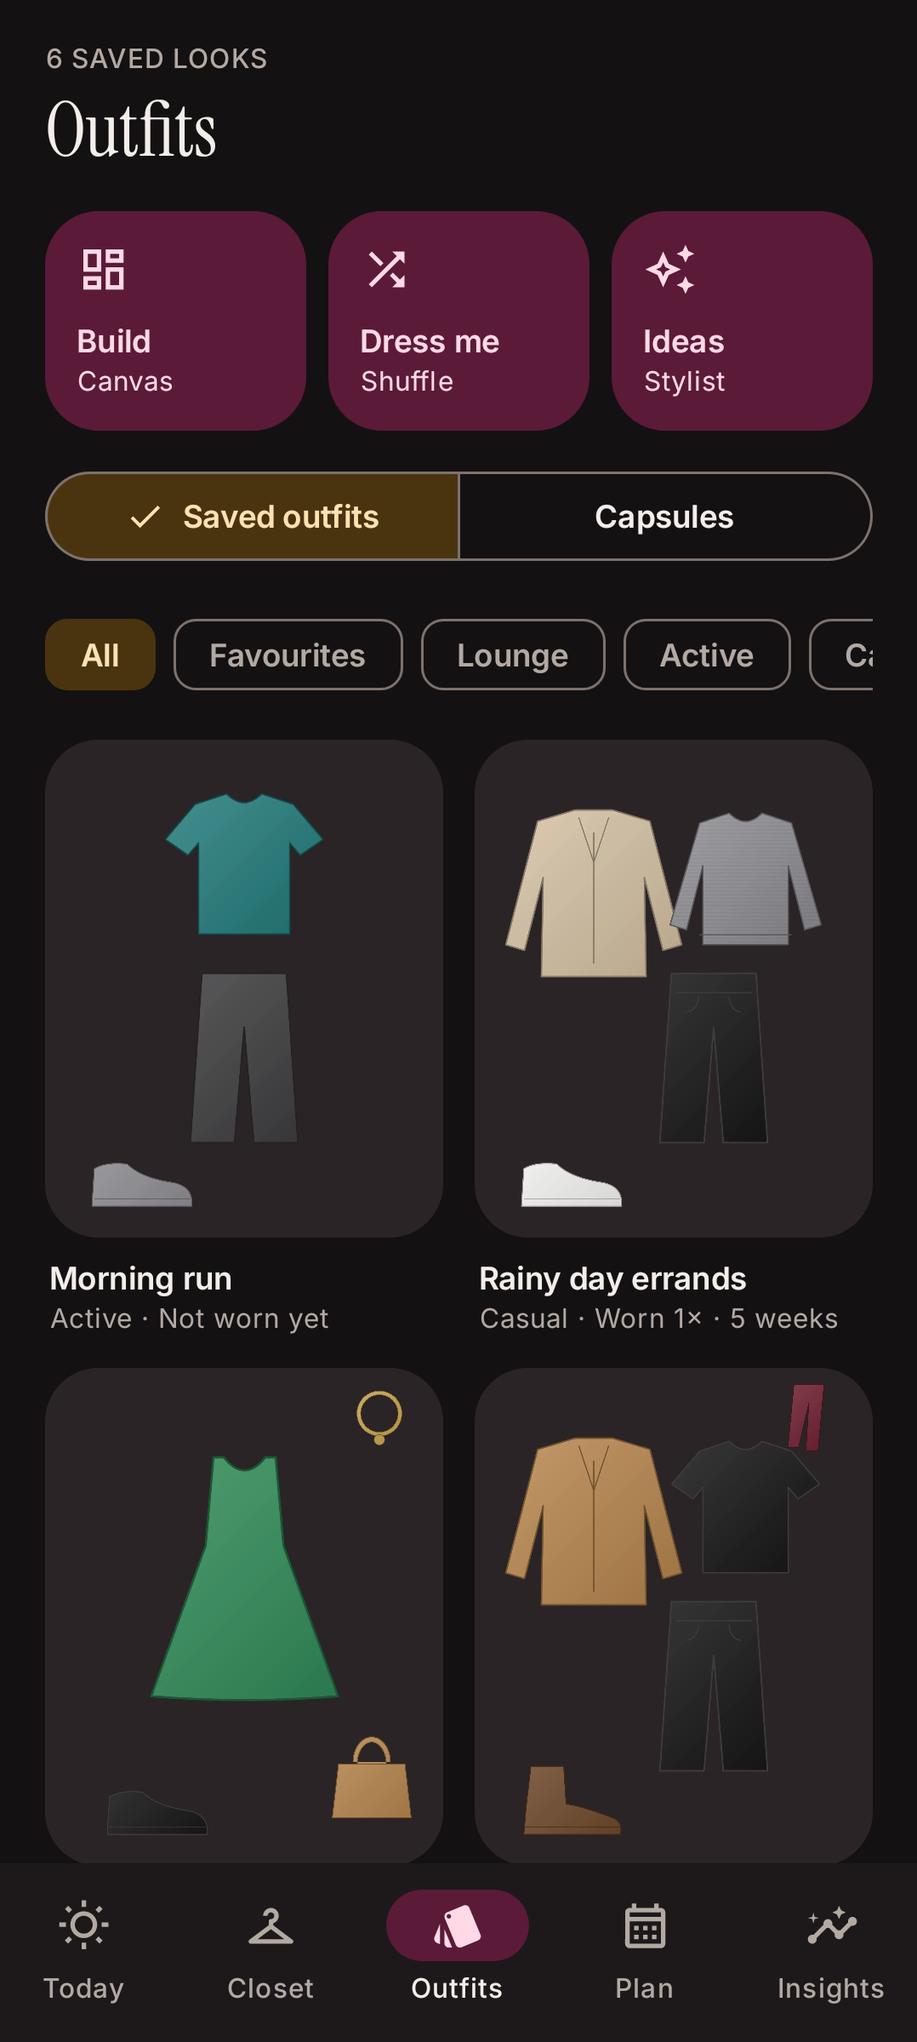
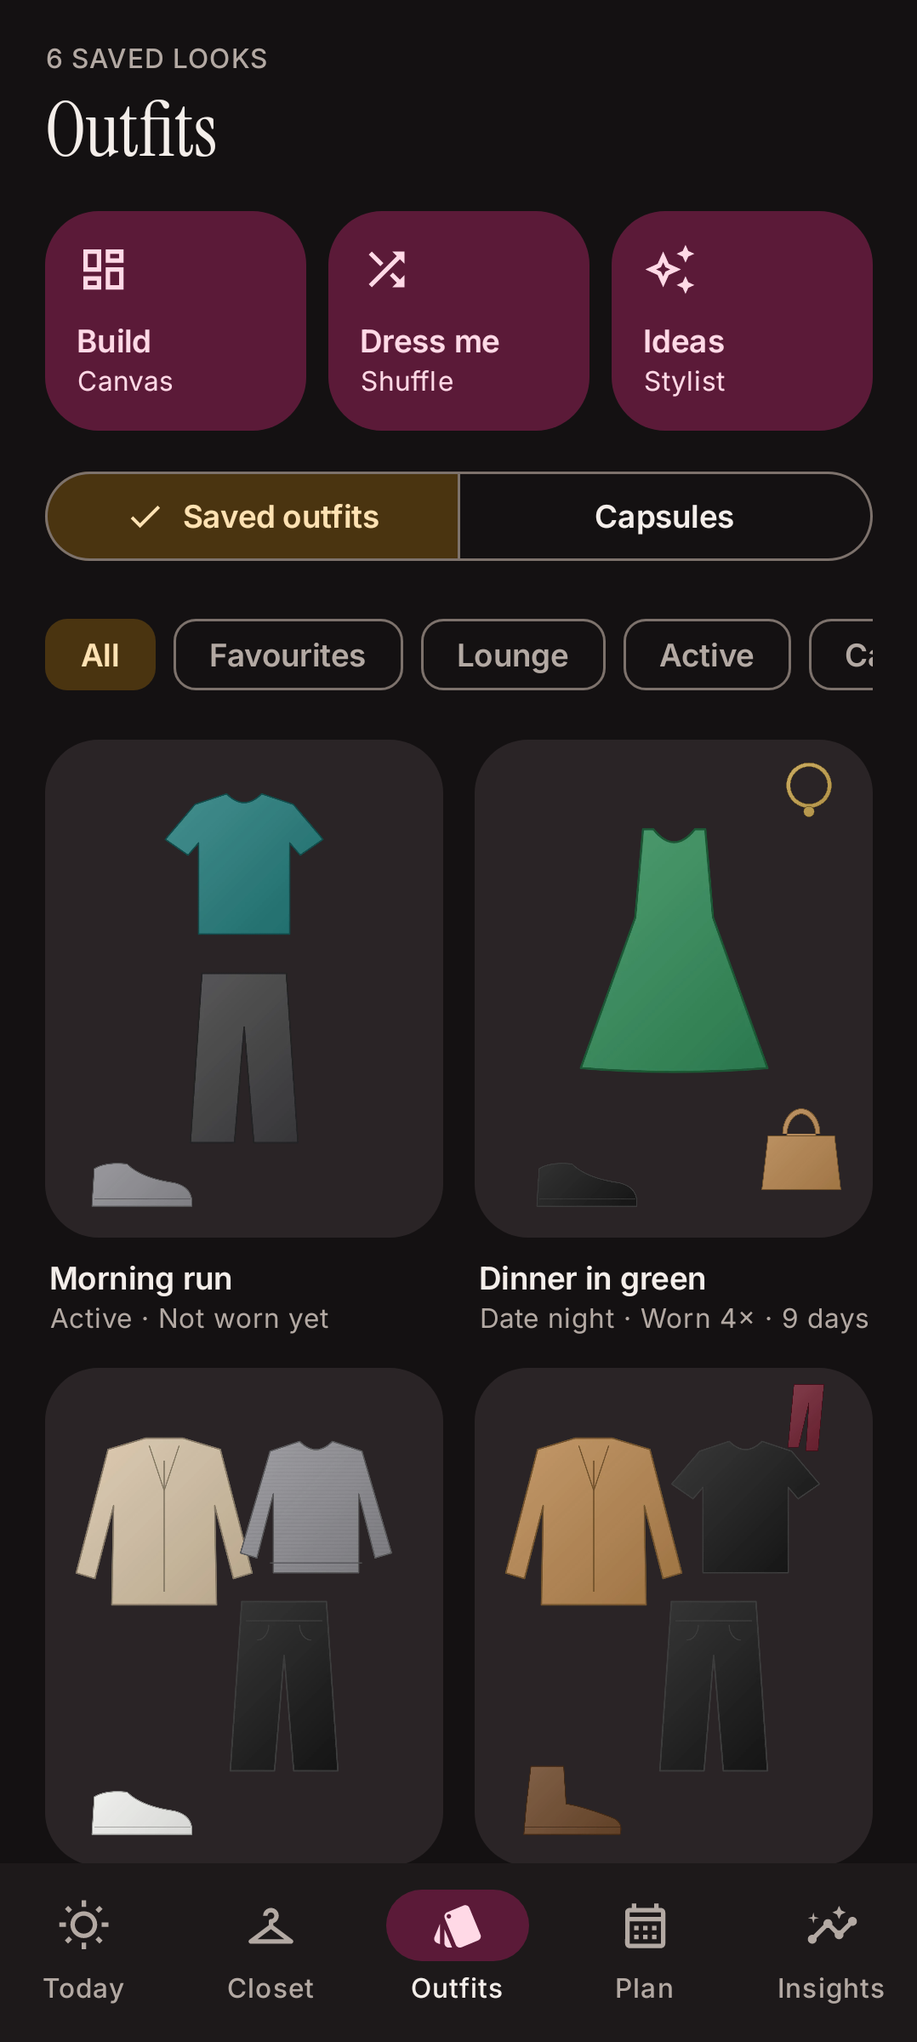
Polish builder layout, tappable tiles, multi-place weather cache; add README and screenshots
- Builder: canvas sized to fit, feedback strip directly under it
- Closet tiles: the whole tile (image and name) is tappable
- Weather: in-memory cache per place so trip forecasts don't evict home
- Trips: regenerating a plan keeps lines added by hand
- Walkthrough test drives every main screen; screenshots in docs/

Claude-Session: https://claude.ai/code/session_017T7hM8q3jRSr691YncxFtP

diff --git a/app/src/main/java/com/kintukka/hanger/ui/outfits/OutfitBuilderScreen.kt b/app/src/main/java/com/kintukka/hanger/ui/outfits/OutfitBuilderScreen.kt
@@ -13,7 +13,6 @@ import androidx.compose.foundation.layout.PaddingValues
 import androidx.compose.foundation.layout.Row
 import androidx.compose.foundation.layout.Spacer
 import androidx.compose.foundation.layout.aspectRatio
-import androidx.compose.foundation.layout.fillMaxHeight
 import androidx.compose.foundation.layout.fillMaxSize
 import androidx.compose.foundation.layout.fillMaxWidth
 import androidx.compose.foundation.layout.height
@@ -267,39 +266,41 @@ fun OutfitBuilderScreen(navController: NavHostController, outfitId: Long, date: 
         },
     ) { padding ->
         Column(Modifier.fillMaxSize().padding(padding)) {
-            Box(Modifier.weight(1f).fillMaxWidth().padding(horizontal = 20.dp), contentAlignment = Alignment.TopCenter) {
-                OutfitCanvas(
-                    placements = state.placements,
-                    items = itemsById,
-                    selected = state.selected,
-                    onSelect = vm::select,
-                    onTransform = vm::transform,
-                    modifier = Modifier.fillMaxHeight(),
-                )
-                if (state.placements.isEmpty()) {
-                    Text(
-                        "Tap pieces below to drop them on the canvas.\nDrag to move, pinch to resize and rotate.",
-                        style = MaterialTheme.typography.bodyMedium,
-                        color = MaterialTheme.colorScheme.onSurfaceVariant,
-                        modifier = Modifier.align(Alignment.Center).padding(24.dp),
-                    )
+            BoxWithConstraints(Modifier.weight(1f).fillMaxWidth().padding(horizontal = 20.dp), contentAlignment = Alignment.TopCenter) {
+                // Largest 4:5 canvas that fits, leaving room for the edit toolbar and stylist feedback below it.
+                val reserved = if (state.selected != null) 150.dp else 100.dp
+                val canvasWidth = minOf(maxWidth, (maxHeight - reserved).coerceAtLeast(120.dp) * OutfitLayout.ASPECT)
+                Column(horizontalAlignment = Alignment.CenterHorizontally) {
+                    Box(contentAlignment = Alignment.Center) {
+                        OutfitCanvas(
+                            placements = state.placements,
+                            items = itemsById,
+                            selected = state.selected,
+                            onSelect = vm::select,
+                            onTransform = vm::transform,
+                            modifier = Modifier.width(canvasWidth),
+                        )
+                        if (state.placements.isEmpty()) {
+                            Text(
+                                "Tap pieces below to drop them on the canvas.\nDrag to move, pinch to resize and rotate.",
+                                style = MaterialTheme.typography.bodyMedium,
+                                color = MaterialTheme.colorScheme.onSurfaceVariant,
+                                modifier = Modifier.padding(24.dp),
+                            )
+                        }
+                    }
+                    state.selected?.let { id ->
+                        Row(Modifier.padding(top = 4.dp), horizontalArrangement = Arrangement.Center) {
+                            IconButton(onClick = { vm.transform(id, 0f, 0f, 0.9f, 0f) }) { Icon(Icons.Outlined.ZoomOut, contentDescription = "Smaller") }
+                            IconButton(onClick = { vm.transform(id, 0f, 0f, 1.1f, 0f) }) { Icon(Icons.Outlined.ZoomIn, contentDescription = "Bigger") }
+                            IconButton(onClick = { vm.sendBack(id) }) { Icon(Icons.Outlined.FlipToBack, contentDescription = "Send backward") }
+                            IconButton(onClick = { vm.bringForward(id) }) { Icon(Icons.Outlined.FlipToFront, contentDescription = "Bring forward") }
+                            IconButton(onClick = { vm.remove(id) }) { Icon(Icons.Outlined.Delete, contentDescription = "Remove from outfit") }
+                        }
+                    }
+                    EvaluationStrip(state.evaluation, Modifier.width(canvasWidth).padding(vertical = 8.dp))
                 }
             }
-
-            state.selected?.let { id ->
-                Row(
-                    Modifier.fillMaxWidth().padding(horizontal = 12.dp, vertical = 4.dp),
-                    horizontalArrangement = Arrangement.Center,
-                ) {
-                    IconButton(onClick = { vm.transform(id, 0f, 0f, 0.9f, 0f) }) { Icon(Icons.Outlined.ZoomOut, contentDescription = "Smaller") }
-                    IconButton(onClick = { vm.transform(id, 0f, 0f, 1.1f, 0f) }) { Icon(Icons.Outlined.ZoomIn, contentDescription = "Bigger") }
-                    IconButton(onClick = { vm.sendBack(id) }) { Icon(Icons.Outlined.FlipToBack, contentDescription = "Send backward") }
-                    IconButton(onClick = { vm.bringForward(id) }) { Icon(Icons.Outlined.FlipToFront, contentDescription = "Bring forward") }
-                    IconButton(onClick = { vm.remove(id) }) { Icon(Icons.Outlined.Delete, contentDescription = "Remove from outfit") }
-                }
-            }
-
-            EvaluationStrip(state.evaluation, Modifier.padding(horizontal = 20.dp, vertical = 6.dp))
 
             Surface(color = MaterialTheme.colorScheme.surfaceContainerLow, tonalElevation = 1.dp) {
                 Column(Modifier.navigationBarsPadding().padding(vertical = 10.dp)) {
@@ -379,7 +380,7 @@ fun OutfitCanvas(
     val density = LocalDensity.current
     BoxWithConstraints(
         modifier
-            .aspectRatio(OutfitLayout.ASPECT, matchHeightConstraintsFirst = true)
+            .aspectRatio(OutfitLayout.ASPECT)
             .clip(MaterialTheme.shapes.extraLarge)
             .background(HangerTokens.extras.tile)
             .pointerInput(Unit) { detectTapGestures { onSelect(null) } }

diff --git a/app/src/test/java/com/kintukka/hanger/AppScreenshotTest.kt b/app/src/test/java/com/kintukka/hanger/AppScreenshotTest.kt
@@ -15,6 +15,7 @@ import androidx.compose.ui.test.onNodeWithText
 import androidx.compose.ui.test.onRoot
 import androidx.compose.ui.test.performClick
 import androidx.compose.ui.test.performScrollToNode
+import androidx.compose.ui.test.performScrollToIndex
 import androidx.compose.ui.test.hasScrollAction
 import androidx.test.core.app.ApplicationProvider
 import androidx.test.ext.junit.runners.AndroidJUnit4
@@ -53,9 +54,10 @@ class AppScreenshotTest {
 
     private fun settle() {
         repeat(4) {
-            ShadowLooper.idleMainLooper()
+            // Advance the paused main looper so delayed work (debounced evaluations) runs too.
+            ShadowLooper.idleMainLooper(400, java.util.concurrent.TimeUnit.MILLISECONDS)
             compose.waitForIdle()
-            Thread.sleep(150)
+            Thread.sleep(100)
         }
     }
 
@@ -66,8 +68,18 @@ class AppScreenshotTest {
 
     private fun tab(label: String) = compose.onNodeWithTag("tab-$label").performClick().also { settle() }
 
-    private fun clickText(text: String): SemanticsNodeInteraction =
-        compose.onAllNodesWithText(text).onFirst().performClick().also { settle() }
+    private fun clickText(text: String): SemanticsNodeInteraction {
+        if (compose.onAllNodesWithText(text).fetchSemanticsNodes().isEmpty()) {
+            compose.onAllNodes(hasScrollAction()).onFirst().performScrollToNode(hasText(text))
+            settle()
+        }
+        return compose.onAllNodesWithText(text).onFirst().performClick().also { settle() }
+    }
+
+    private fun scrollTop() {
+        compose.onAllNodes(hasScrollAction()).onFirst().performScrollToIndex(0)
+        settle()
+    }
 
     private fun back() {
         compose.activityRule.scenario.onActivity { it.onBackPressedDispatcher.onBackPressed() }
@@ -101,7 +113,7 @@ class AppScreenshotTest {
         shot("05_item_edit")
         back(); back()
 
-        compose.onNodeWithText("Add").performClick(); settle()
+        compose.onNodeWithText("Add", useUnmergedTree = true).performClick(); settle()
         shot("06_add_sheet")
         back()
 
@@ -113,14 +125,17 @@ class AppScreenshotTest {
         shot("09_builder")
         back(); back()
 
+        scrollTop()
         compose.onNode(hasText("Dress me") and hasClickAction()).performClick(); settle()
         shot("10_shuffle")
         back()
 
+        scrollTop()
         compose.onNode(hasText("Ideas") and hasClickAction()).performClick(); settle()
         shot("11_ideas")
         back()
 
+        scrollTop()
         clickText("Capsules")
         shot("12_capsules")
 
@@ -135,6 +150,7 @@ class AppScreenshotTest {
         shot("16_insights_more")
 
         tab("Today")
+        scrollTop()
         compose.onNodeWithContentDescription("Settings").performClick(); settle()
         shot("17_settings")
     }
@@ -159,7 +175,7 @@ class DarkModeScreenshotTest {
             DemoCloset.load(app.container.db, app.container.images)
         }
         compose.setContent { HangerTheme(darkTheme = true) { HangerNavHost() } }
-        fun settle() = repeat(4) { ShadowLooper.idleMainLooper(); compose.waitForIdle(); Thread.sleep(150) }
+        fun settle() = repeat(4) { ShadowLooper.idleMainLooper(400, java.util.concurrent.TimeUnit.MILLISECONDS); compose.waitForIdle(); Thread.sleep(100) }
         settle()
         compose.onRoot().captureRoboImage("screenshots/dark_today.png")
         compose.onNodeWithTag("tab-Closet").performClick(); settle()

diff --git a/app/src/main/java/com/kintukka/hanger/weather/Weather.kt b/app/src/main/java/com/kintukka/hanger/weather/Weather.kt
@@ -47,26 +47,28 @@ data class Place(val name: String, val region: String, val country: String, val 
 class WeatherRepository(private val settings: SettingsRepository) {
     private val json = Json { ignoreUnknownKeys = true; explicitNulls = false }
     private val mutex = Mutex()
-    private var memory: Pair<String, Forecast>? = null
+    private val memory = mutableMapOf<String, Forecast>()
 
     suspend fun forecast(latitude: Double, longitude: Double, force: Boolean = false): Forecast? = mutex.withLock {
         val key = cacheKey(latitude, longitude)
         val now = System.currentTimeMillis()
-        memory?.let { (k, f) -> if (!force && k == key && now - f.fetchedAt < CACHE_MS) return f }
+        memory[key]?.let { f -> if (!force && now - f.fetchedAt < CACHE_MS) return f }
 
         val cached = settings.weatherCache()?.let { runCatching { json.decodeFromString<CachedForecast>(it) }.getOrNull() }
             ?.takeIf { it.key == key }
         if (!force && cached != null && now - cached.fetchedAt < CACHE_MS) {
-            return parse(cached.body, cached.fetchedAt).also { memory = key to it }
+            return parse(cached.body, cached.fetchedAt).also { memory[key] = it }
         }
 
         val fresh = runCatching { fetch(latitude, longitude) }.getOrNull()
         if (fresh != null) {
-            settings.setWeatherCache(json.encodeToString(CachedForecast(key, now, fresh)))
-            return parse(fresh, now).also { memory = key to it }
+            // Only the home location is persisted for offline use; other places stay in memory.
+            val home = settings.current().let { s -> if (s.latitude != null && s.longitude != null) cacheKey(s.latitude, s.longitude) else null }
+            if (home == null || home == key) settings.setWeatherCache(json.encodeToString(CachedForecast(key, now, fresh)))
+            return parse(fresh, now).also { memory[key] = it }
         }
         // Offline: fall back to the last forecast we had, even if stale.
-        return cached?.let { parse(it.body, it.fetchedAt) }?.also { memory = key to it }
+        return cached?.let { parse(it.body, it.fetchedAt) }?.also { memory[key] = it }
     }
 
     suspend fun searchPlaces(query: String): List<Place> = withContext(Dispatchers.IO) {

diff --git a/app/src/main/java/com/kintukka/hanger/data/repo/WardrobeRepository.kt b/app/src/main/java/com/kintukka/hanger/data/repo/WardrobeRepository.kt
@@ -240,9 +240,11 @@ class WardrobeRepository(
     /** Replace a trip's packing list and planned outfits with a fresh plan. Keeps "packed" ticks for lines that survive. */
     suspend fun applyPackingPlan(tripId: Long, plan: PackingPlan) = db.withTransaction {
         val trip = tripDao.get(tripId) ?: return@withTransaction
-        val previouslyPacked = tripDao.getAllPacking().filter { it.tripId == tripId && it.packed }
-            .map { it.itemId to it.label }.toSet()
+        val existing = tripDao.getAllPacking().filter { it.tripId == tripId }
+        val previouslyPacked = existing.filter { it.packed }.map { it.itemId to it.label }.toSet()
+        val custom = existing.filter { it.sortOrder >= CUSTOM_LINE_ORDER }
         tripDao.clearPacking(tripId)
+        tripDao.insertPacking(custom.map { it.copy(id = 0) })
         tripDao.insertPacking(plan.items.mapIndexed { i, line ->
             PackingItemEntity(
                 tripId = tripId,
@@ -265,7 +267,7 @@ class WardrobeRepository(
     suspend fun setPacked(item: PackingItemEntity, packed: Boolean) = tripDao.updatePacking(item.copy(packed = packed))
 
     suspend fun addPackingLine(tripId: Long, label: String, category: com.kintukka.hanger.engine.PackCategory) =
-        tripDao.insertPacking(listOf(PackingItemEntity(tripId = tripId, label = label, category = category, sortOrder = 10_000)))
+        tripDao.insertPacking(listOf(PackingItemEntity(tripId = tripId, label = label, category = category, sortOrder = CUSTOM_LINE_ORDER)))
 
     suspend fun deletePackingLine(item: PackingItemEntity) = tripDao.deletePacking(item)
 
@@ -315,4 +317,9 @@ class WardrobeRepository(
     }
 
     private fun itemToGarment(e: ItemEntity) = Item(e, 0, null, null).toGarment()
+
+    private companion object {
+        /** Packing lines the user typed themselves sort after generated ones and survive regeneration. */
+        const val CUSTOM_LINE_ORDER = 10_000
+    }
 }

diff --git a/app/src/main/java/com/kintukka/hanger/ui/components/Components.kt b/app/src/main/java/com/kintukka/hanger/ui/components/Components.kt
@@ -107,7 +107,11 @@ fun ItemTile(
     onClick: (() -> Unit)? = null,
 ) {
     val extras = HangerTokens.extras
-    Column(modifier) {
+    Column(
+        modifier
+            .clip(MaterialTheme.shapes.medium)
+            .then(if (onClick != null) Modifier.clickable(onClick = onClick) else Modifier),
+    ) {
         Box(
             Modifier
                 .fillMaxWidth()
@@ -115,7 +119,6 @@ fun ItemTile(
                 .clip(MaterialTheme.shapes.medium)
                 .background(extras.tile)
                 .then(if (selected) Modifier.border(BorderStroke(2.5.dp, MaterialTheme.colorScheme.primary), MaterialTheme.shapes.medium) else Modifier)
-                .then(if (onClick != null) Modifier.clickable(onClick = onClick) else Modifier)
                 .semantics { contentDescription = item.name + if (item.status != GarmentStatus.CLEAN) ", ${item.status.label}" else "" },
         ) {
             ItemImage(item, Modifier.fillMaxSize().padding(10.dp))

diff --git a/app/src/main/java/com/kintukka/hanger/ui/planner/TripScreen.kt b/app/src/main/java/com/kintukka/hanger/ui/planner/TripScreen.kt
@@ -433,7 +433,7 @@ fun TripScreen(navController: NavHostController, id: Long) {
             text = {
                 Text(
                     "Hanger rebuilds the packing list and planned outfits from your closet and the latest forecast. " +
-                        "Things you've already ticked off stay packed; lines you added yourself are replaced.",
+                        "Things you've already ticked off stay packed, and lines you added yourself are kept.",
                 )
             },
             confirmButton = {

diff --git a/README.md b/README.md
@@ -1,1 +1,109 @@
-# outfit-planner-app
+# Hanger — a personal wardrobe & outfit planner for Android
+
+Hanger is an all-in-one digital closet, outfit planner and stylist that runs entirely on your phone.
+It was designed from the [competitive research](reports/Best%20outfit%20planner%20apps%202026.md) in this repo:
+it keeps the mechanics people love in Whering, Acloset, Indyx, Stylebook, Cladwell and Alta, and avoids the
+things that earn them 1-star reviews (paywalls after hours of cataloguing, data you can't export, forced AI).
+
+<p align="center">
+  <img src="docs/screenshots/01_today.png" width="200" alt="Today screen">
+  <img src="docs/screenshots/03_closet.png" width="200" alt="Closet">
+  <img src="docs/screenshots/07_outfits.png" width="200" alt="Saved outfits">
+  <img src="docs/screenshots/09_builder.png" width="200" alt="Outfit canvas">
+</p>
+<p align="center">
+  <img src="docs/screenshots/10_shuffle.png" width="200" alt="Dress me shuffle">
+  <img src="docs/screenshots/13_planner.png" width="200" alt="Calendar planner">
+  <img src="docs/screenshots/15_insights.png" width="200" alt="Insights">
+  <img src="docs/screenshots/dark_today.png" width="200" alt="Dark mode">
+</p>
+
+## Install it on your phone
+
+1. On your Android phone open **[the latest release](../../releases/latest)** and download **`hanger.apk`**
+   (or grab `hanger-apk` from the newest run under the repo's **Actions** tab).
+2. Open the downloaded file. If Android asks, allow your browser/Files app to **install unknown apps**.
+3. Open Hanger. Tap **Explore with a demo closet** to try everything with sample clothes, or **Add my first pieces** to start your own.
+   You can remove the demo closet any time in Settings.
+
+Updates install over the top and keep your data, because every build is signed with the same key
+(`app/signing/hanger-personal.jks`, committed on purpose for this personal, sideloaded app).
+
+## What it does
+
+**Closet**
+- Add clothes from the camera or up to 30 photos at once. Backgrounds are removed **on-device** (ML Kit subject
+  segmentation), the type is guessed (ML Kit image labelling) and colours are named by k-means colour extraction.
+  Review and fix everything on one screen before saving.
+- Add pieces without a photo and get a generated illustration (handy for wishlists).
+- Rich item details: category & type presets, up to 3 colours, pattern, formality, warmth, seasons, sporty/waterproof,
+  brand, size, material, price, purchase date, tags, notes.
+- Search, filter (category, clean only, favourites), sort (most/least worn, longest unworn, best cost per wear, colour…),
+  wishlist and archive views.
+- **Laundry tracking**: each piece has a wears-before-wash count; logging an outfit moves pieces to the laundry
+  automatically and suggestions skip them until you tap *Washed*.
+
+**Outfits**
+- **Canvas builder**: tap pieces to drop them on a 4:5 flat-lay, drag to move, pinch to resize/rotate, layer order,
+  one-tap tidy layout, plus live stylist feedback (colour harmony, clashing patterns, formality, weather fit).
+- **Dress me** shuffle (the Clueless closet): rows per category, lock what you like, smart matching, least-worn bias,
+  in-season and clean-only filters.
+- **Ideas**: weather-, occasion- and history-aware suggestions with stylist notes, "style this piece" around any item,
+  thumbs up/down that teach the recommender.
+- **Capsules**: build an edit, see how many outfits it makes and which closet piece would add the most combinations.
+
+**Today**
+- The forecast for the hours you're out (Open-Meteo, no account), what it means for your outfit, your planned look,
+  fresh ideas, laundry nudges and a "forgotten gem" you haven't worn in a while. After 6pm it looks ahead to tomorrow.
+- Optional morning notification and a home-screen widget with today's outfit.
+
+**Plan**
+- Calendar with wear log and planned looks, logging streaks, and a day view to plan, log, suggest, build or shuffle.
+- **Trips**: destination + dates + occasions → an auto-built capsule of outfits per day (using the forecast when the
+  trip is within 16 days) and a packing checklist with weather extras.
+
+**Insights**
+- Closet value, cost per wear, % of closet worn in 30/90 days, streaks, outfits logged per month, category and colour
+  breakdowns, most/least/never worn, best/worst cost per wear, forgotten pieces, and how many outfits your closet makes.
+
+**AI stylist (optional)**
+- Chat with a stylist that knows every piece you own, what's in the laundry and today's weather, and answers with
+  outfits built from your closet that you can wear or save in one tap. It runs on Claude (`claude-opus-5-5`) with
+  **your own Anthropic API key** (Settings → AI stylist); the rest of the app never needs it. Only the text wardrobe
+  list is sent, never photos. Requests opt into Anthropic's server-side refusal fallback.
+
+**Your data**
+- Everything is stored on the phone (Room database + app-private image folder). No account, no ads, no tracking.
+- **Export / restore** the whole closet (data + photos) as one `.zip` to Drive, Downloads or anywhere.
+
+## How it's built
+
+| Layer | Tech |
+|---|---|
+| UI | Kotlin, Jetpack Compose, Material 3, Navigation Compose (type-safe routes), Instrument Serif + Inter |
+| Data | Room (items, outfits + canvas placements, calendar entries, trips, packing, capsules), DataStore |
+| Styling engine | Pure-Kotlin `:engine` module: colour naming/harmony, weather advisor, outfit evaluator & generator, shuffle, feedback learning, packing planner, stats, capsule maths — 105 unit tests |
+| Images | ML Kit Subject Segmentation (Play services) + Image Labeling, Coil |
+| Weather | Open-Meteo forecast + geocoding, offline cache |
+| Background | WorkManager daily reminder, Glance widget |
+| AI | Anthropic Java SDK (optional) |
+
+```
+engine/   pure Kotlin styling engine + tests
+app/      Android app (data, images, weather, backup, ui/*, widget, notify, ai)
+reports/  the market research this app is based on
+```
+
+### Build locally
+
+Requires JDK 17+ and the Android SDK (platform 35).
+
+```bash
+./gradlew :engine:test              # engine unit tests
+./gradlew :app:testDebugUnitTest    # Robolectric tests: database, backup, weather, full-app walkthrough
+./gradlew :app:recordRoborazziDebug # same, and writes screenshots to app/screenshots/
+./gradlew :app:assembleRelease      # app/build/outputs/apk/release/hanger.apk
+```
+
+CI (`.github/workflows/android.yml`) runs all tests, builds the APK on every push and PR, and publishes it as the
+`latest` release from `main`.
